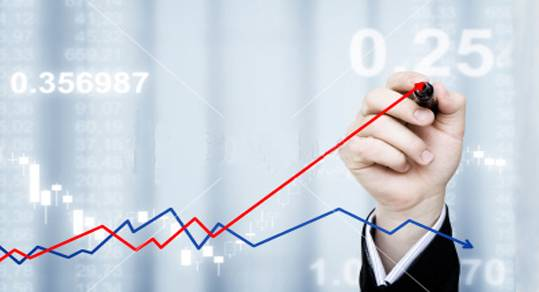
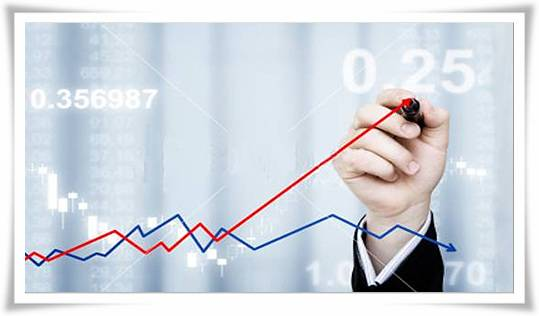
homepage pic improvment & norisk button improvmeent

diff --git a/app/assets/stylesheets/style.css b/app/assets/stylesheets/style.css
@@ -2,7 +2,7 @@
 body { margin:0; padding:0; width:100%; background:#2e597b url(main_bg.jpg) top repeat-x; }
 html { padding:0; margin:0; }
 
-input {
+form.button_to div input {
    border-top: 1px solid #96d1f8;
    background: #65a9d7;
    background: -webkit-gradient(linear, left top, left bottom, from(#3e779d), to(#65a9d7));
@@ -24,12 +24,12 @@ input {
    text-decoration: none;
    vertical-align: middle;
    }
-input:hover {
+form.button_to div input:hover {
    border-top-color: #28597a;
    background: #28597a;
    color: #ccc;
    }
-input:active {
+form.button_to div input:active {
    border-top-color: #1b435e;
    background: #1b435e;
    }
